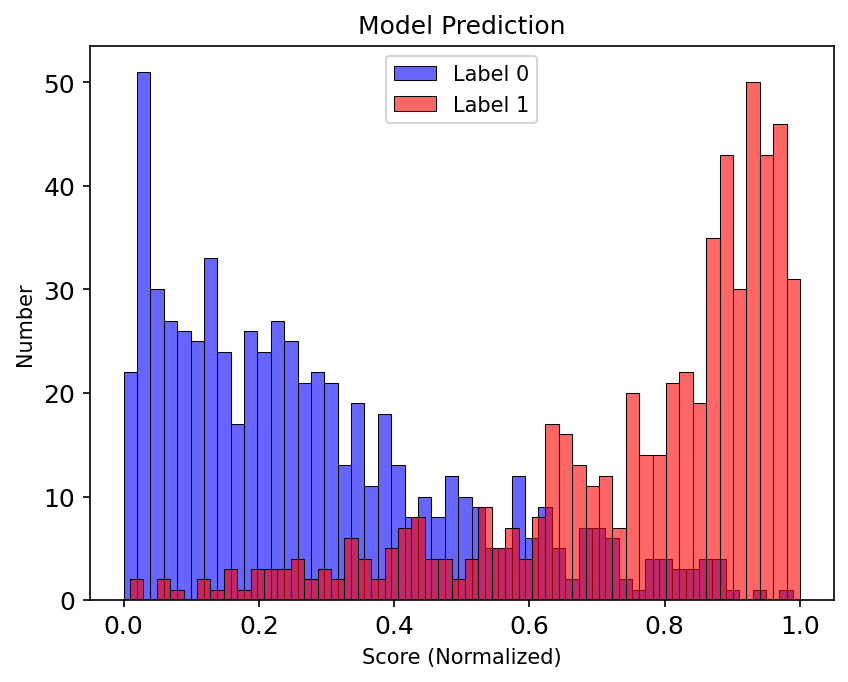
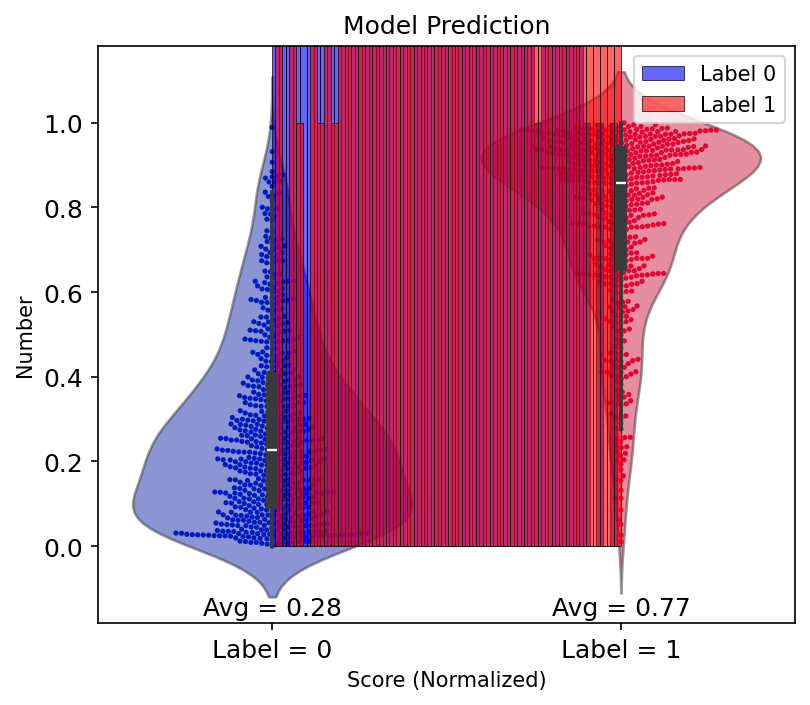
交換EM/FC訓練

diff --git a/merge_Model_predict.py b/merge_Model_predict.py
@@ -3,11 +3,15 @@ import pandas as pd
 import os
 import matplotlib.pyplot as plt
 import seaborn as sns
-
+import numpy as np
 # %%
-find_from = 'fc_id' # fc找em用'fc_id', em找fc用'em_id'
+find_from = 'em_id' # fc找em用'fc_id', em找fc用'em_id'
 
-file_path = './result/unlabel_data_predict'
+file_path = './result/unlabel_data_predict/'
+output_filename = '2024-04-01_EMxFC_rk20.csv'
+
+rank_n = 20 # 保留排名前n的数据
+
 file_list = os.listdir(file_path)
 # 只保留csv檔案
 file_list = [f for f in file_list if f.endswith('.csv')]
@@ -29,10 +33,38 @@ df = df.sort_values(by=[find_from, 'model_predict'], ascending=[True, False])
 # 添加排名, 整数
 df['rank'] = df.groupby(find_from)['model_predict'].rank(ascending=False).astype(int)
 
-# 保留排名前5的数据
-df_reduced = df[df['rank'] <= 5]
+# 保留排名前n的数据
+df_reduced = df[df['rank'] <= rank_n]
 
-df_reduced.to_csv('./result/unlabel_data_predict/merge_predict_Rank5.csv', index=False)
+df_reduced.to_csv(os.path.join(file_path, output_filename), index=False)
+
+
+
+
+# %% 分析模型排名和冠廷排名的差異
+df = df.sort_values(by=[find_from, 'KT_score'], ascending=[True, False])
+df['KT_rank'] = df.groupby(find_from)['KT_score'].rank(ascending=False).astype(int)
+
+fc_grouped = df.groupby(find_from)
+# 建立numpy array紀錄各FC對應排名
+rank_np = np.zeros((np.max(df['rank']), len(fc_grouped)))
+
+for j, (fc_id, group) in enumerate(fc_grouped):
+    rank_df = pd.DataFrame({'model_rank':group['rank'], 'KT_rank':group['KT_rank']})
+    rank_df.sort_values(by='model_rank', inplace=True)
+    rank_np[:len(rank_df), j] = rank_df['KT_rank']
+
+# 按排名繪製boxplot
+plt.style.use('default')
+plt.figure(figsize=(12, 8))
+boxplot_lst = [r for r in rank_np]
+
+plt.title('Model_rank vs KT_rank')
+sns.boxplot(data=boxplot_lst[:20], width=0.8)
+plt.xlabel('Model_rank')
+plt.ylabel('KT_rank')
+plt.savefig('./Figure/Model_rank_vs_KT_rank2.png', dpi=150, bbox_inches='tight')
+plt.show()
 # %%
 # 分析冠廷分数和模型分数的相关性
 from scipy.stats import pearsonr

diff --git a/result_analysis.py b/result_analysis.py
@@ -11,6 +11,9 @@ import seaborn as sns
 import pandas as pd
 from util import load_pkl
 from sklearn.metrics import confusion_matrix, f1_score, roc_curve, auc
+from util import load_pkl
+from keras.models import *
+from tqdm import tqdm
 
 def generate_cross_loss_curve(losses_df, curve_color, name):
 
@@ -498,10 +501,6 @@ for i in v1_region_lst:
 
 
 # %% 分析交換輸入的結果
-from util import load_pkl
-from keras.models import *
-from tqdm import tqdm
-
 cross_num = 1       #這裏為了快速分析，只調用一個模型來預測。
 test_path = './data/statistical_results/three_view_pic_rk10/'
 test_num = 1000     # 取1000個未標注資料測試
@@ -604,6 +603,8 @@ for violin in ax.collections:
 # 计算平均数
 averages = [np.mean(p) for p in [d_inv, old_d_inv]]
 
+
+
 # 在小提琴图上标注平均数
 for i, avg in enumerate(averages):
     ax.text(i, y_lim[0]+0.02, f"Avg = {avg:.2f}", horizontalalignment='center', fontsize=12, color='black')
@@ -616,4 +617,22 @@ plt.savefig('./Figure/exchange_diviation.png', dpi=150, bbox_inches="tight")
 # 显示图像
 plt.show()
 
+
+# 畫box plot
+plt.figure(figsize=(6,5))
+sns.boxplot(data=[d_inv, old_d_inv], palette=['#001BC2', '#E90132'])
+
+y_lim = ax.get_ylim()
+
+# 标注平均数
+for i, avg in enumerate(averages):
+    ax.text(i, y_lim[0]+0.02, f"Avg = {avg:.2f}", horizontalalignment='center', fontsize=12, color='black')
+
+plt.xticks([0, 1], ['Input permutation invariance', 'Before'])
+plt.ylabel('Deviation')
+plt.savefig('./Figure/exchange_diviation_box.png', dpi=150, bbox_inches="tight")
+plt.show()
 # %%
+# save d_inv to npy
+np.save('./result/d_inv.npy', d_inv)
+np.save('./result/old_d_inv.npy', old_d_inv)

diff --git a/Model_predict.py b/Model_predict.py
@@ -34,16 +34,16 @@ if not os.path.exists(save_folder_path):
 
 
 # %% 对新数据集进行标注
-unlabel_path_01 = './data/statistical_results/three_view_pic_rk10'
-unlabel_path_02 = './data/statistical_results/three_view_pic_rk10to20'
+unlabel_path_01 = './data/statistical_results/EMxFC_rk0-20'
+# unlabel_path_02 = './data/statistical_results/three_view_pic_rk10to20'
 
 # 筛选出指定文件夹下以 .pkl 结尾的文件並存入列表
 file_list_01 = [file_name for file_name in os.listdir(unlabel_path_01) if file_name.endswith('.pkl')]
-file_list_02 = [file_name for file_name in os.listdir(unlabel_path_02) if file_name.endswith('.pkl')]
+# file_list_02 = [file_name for file_name in os.listdir(unlabel_path_02) if file_name.endswith('.pkl')]
 
 file_path_01 = [os.path.join(unlabel_path_01, file_name) for file_name in file_list_01]
-file_path_02 = [os.path.join(unlabel_path_02, file_name) for file_name in file_list_02]
-file_path = file_path_01 + file_path_02
+# file_path_02 = [os.path.join(unlabel_path_02, file_name) for file_name in file_list_02]
+file_path = file_path_01 #+ file_path_02
 
 
 # 计算label
